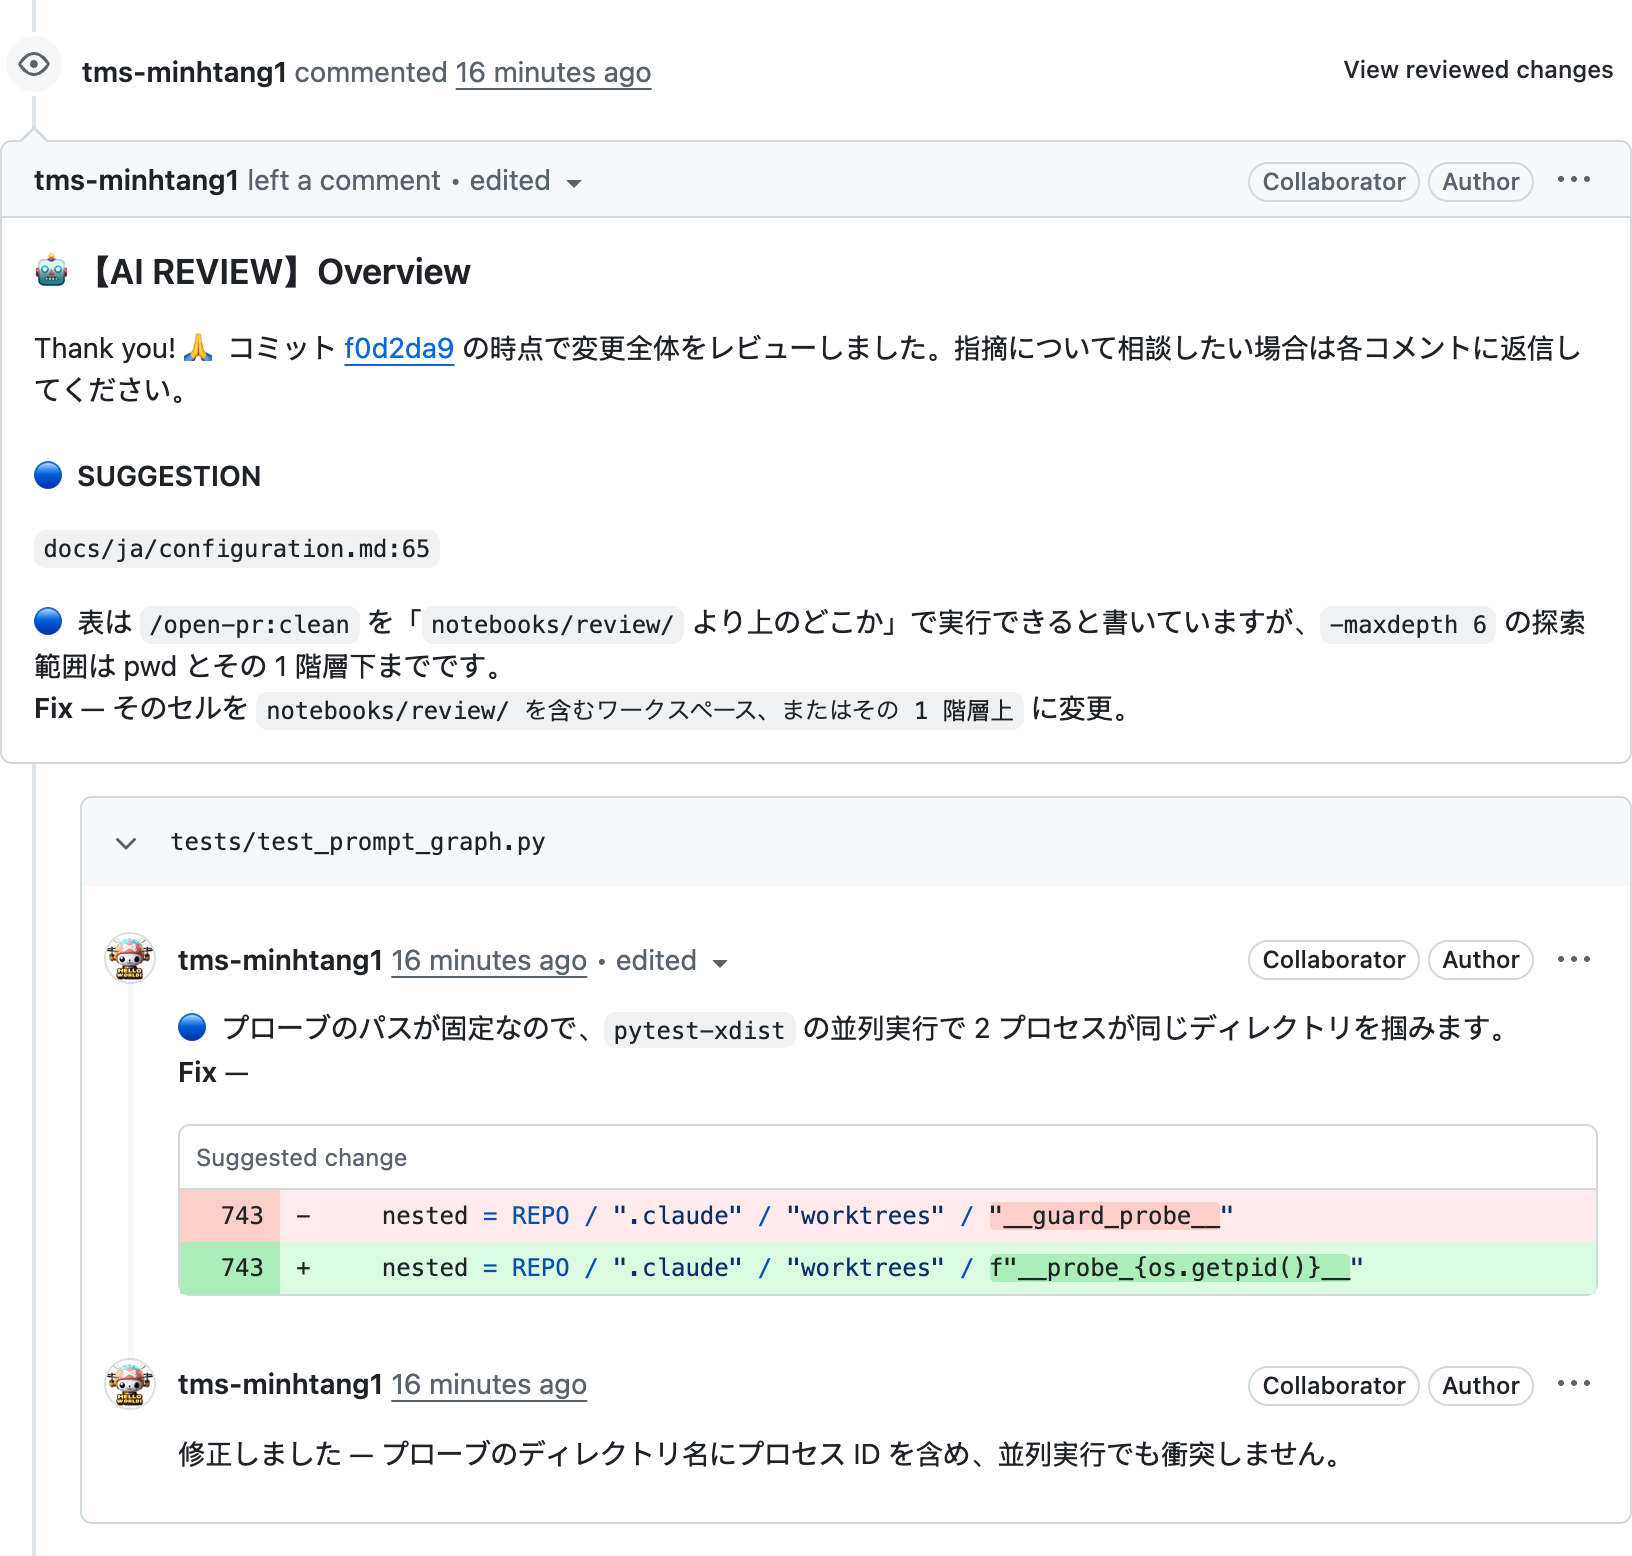
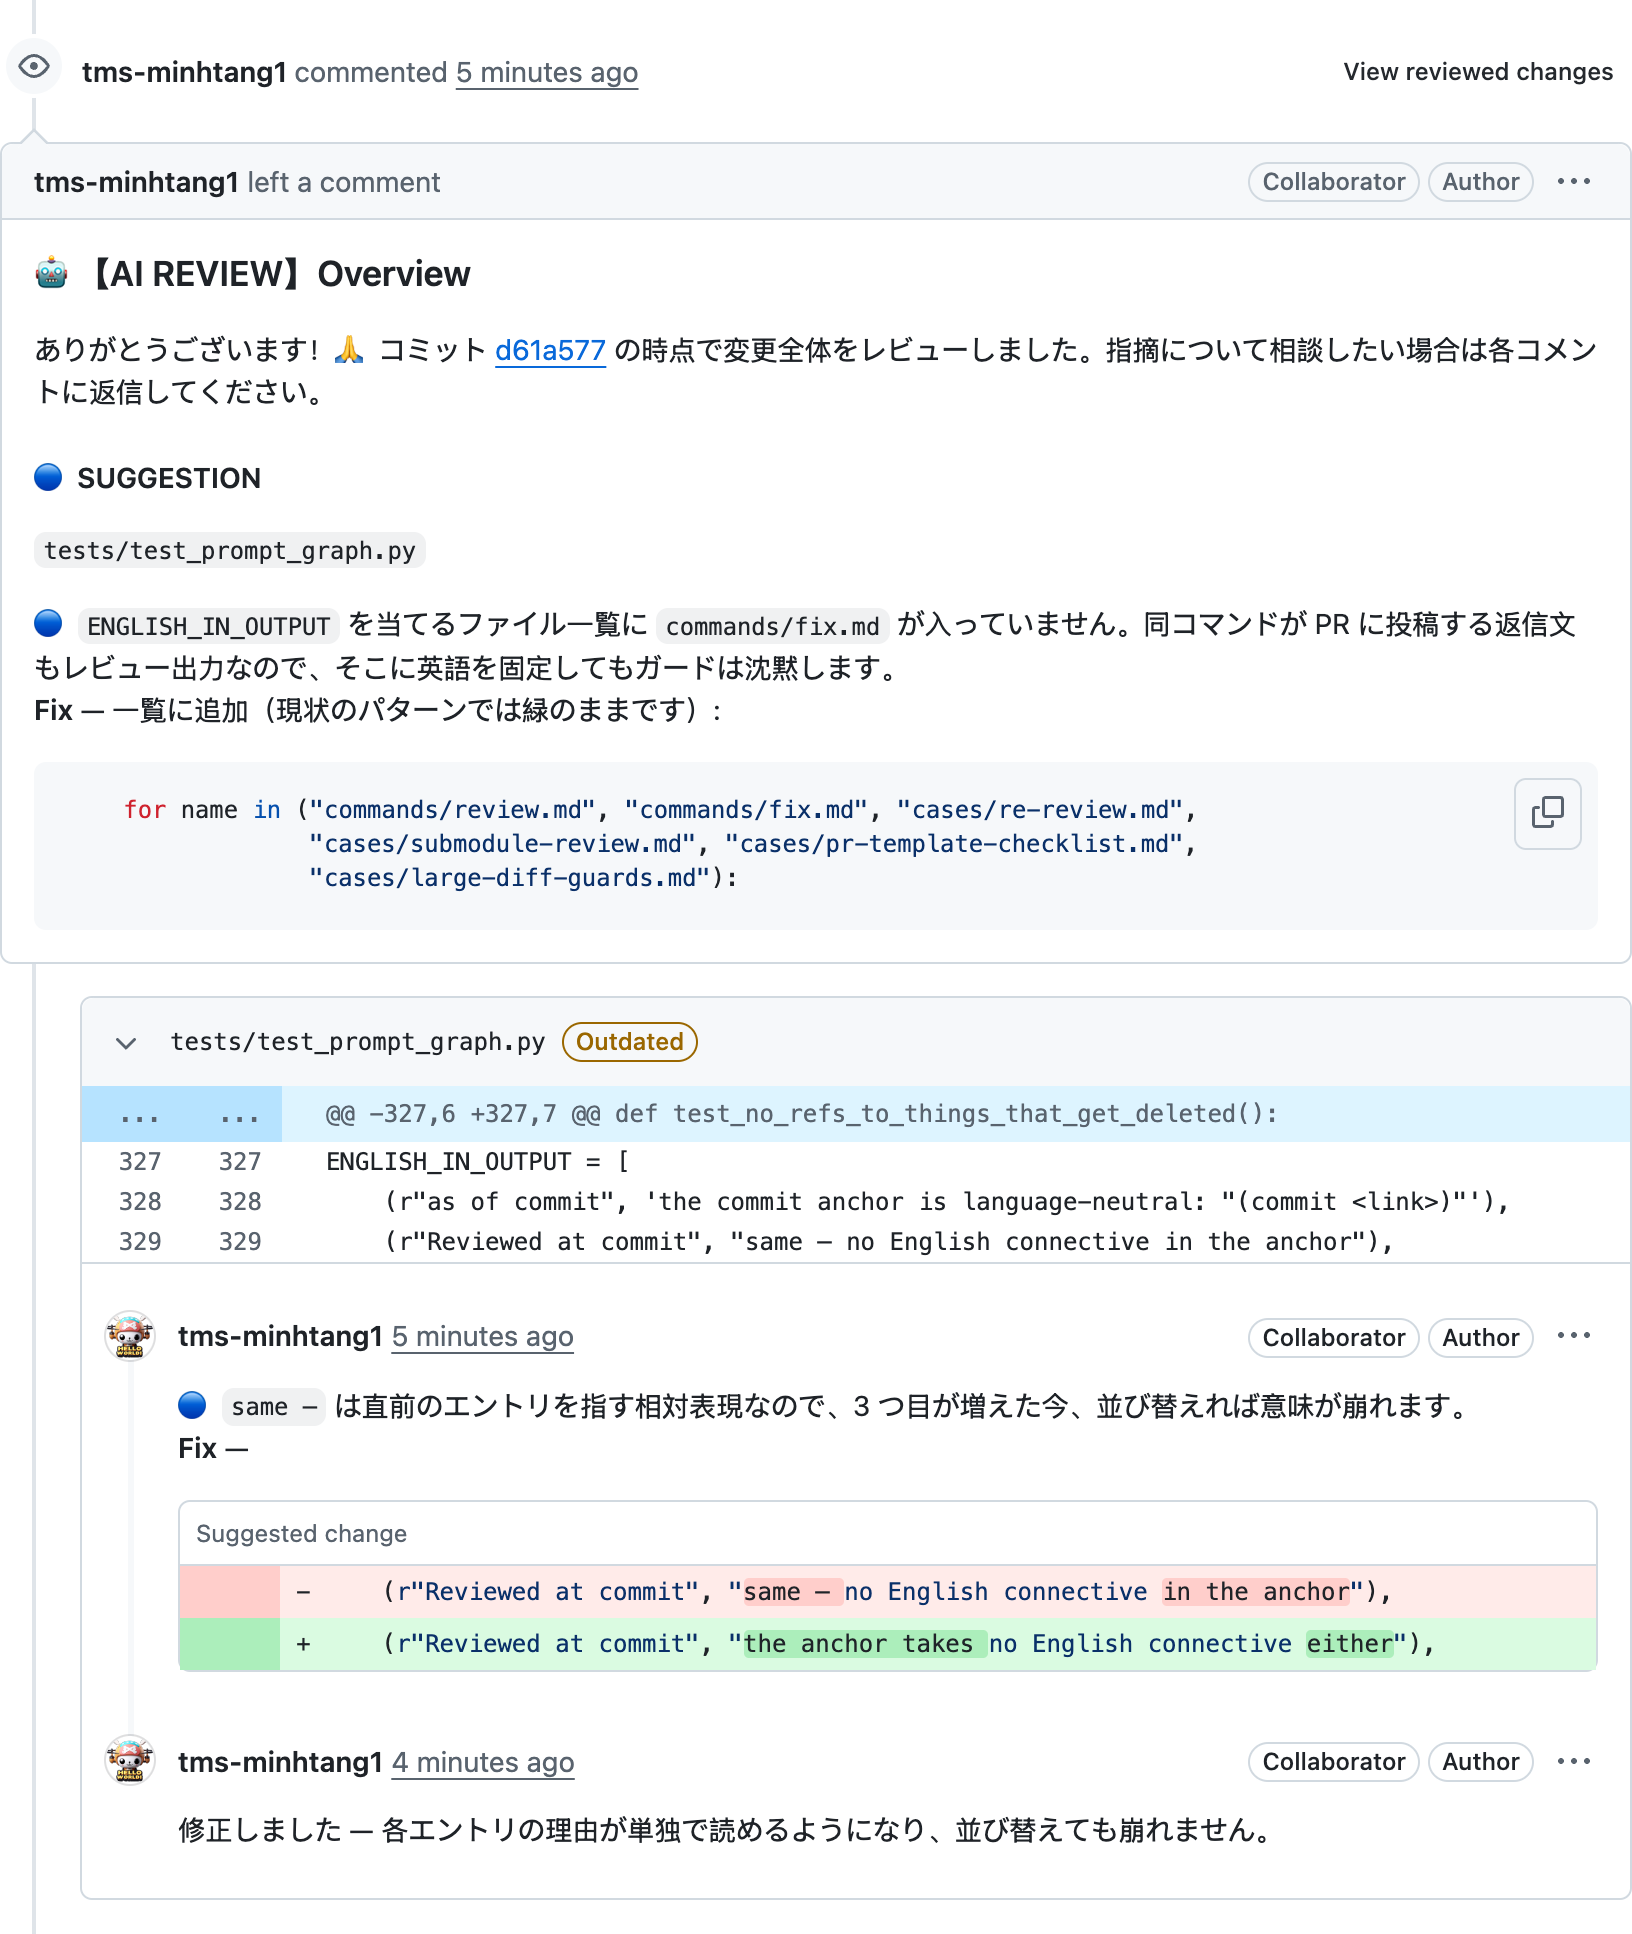
fix(review): the overview's thanks is written in the output language (#34)
* fix(review): the overview's thanks is written in the output language

The opening line was pinned to the literal English string, so a `ja` or `vi`
review shipped a Japanese or Vietnamese body under an English "Thank you!".
The thanks now follows the output language like every other word of the
overview.

* fix(review): the anchor's language rule has one owner, and a guard holds it

The prose bullet said the anchor sentence goes in the output language, which the
overview paragraph now says for all of its prose — a restatement in different
words, so `dup_scan.py` never saw it. The bullet keeps only what distinguishes
the two anchor forms.

`ENGLISH_IN_OUTPUT` grows the case that shipped: a pinned English "Thank you"
in a file whose text reaches the PR. Reverting the paragraph to the literal
string fails the suite.

Ceilings drop by the 12 tokens won, on the 8 scenarios that read review.md.

* fix(tests): the budget note warns what --update-budgets does to a tight ceiling

Ceilings tightened by hand sit far under measured +2%, so the flag that claims
to enforce the note in fact raises them. The note says both halves now.

The guard's reason line drops the mention of the overview: the pattern fires
across every scanned file, and the message has to read right wherever it trips.

* fix(tests): the output-language guard also reads the command that replies on the PR

`fix.md` writes reply text onto the PR, so a pinned English string there ships
[…]

diff --git a/tests/test_prompt_graph.py b/tests/test_prompt_graph.py
@@ -326,7 +326,8 @@ def test_no_refs_to_things_that_get_deleted():
 
 ENGLISH_IN_OUTPUT = [
     (r"as of commit", 'the commit anchor is language-neutral: "(commit <link>)"'),
-    (r"Reviewed at commit", "same — no English connective in the anchor"),
+    (r"Reviewed at commit", "the anchor takes no English connective either"),
+    (r"Thank you", "a thanks pinned in English ships English into a non-English review"),
 ]
 
 
@@ -414,8 +415,9 @@ def test_posted_output_hardcodes_no_english_connective():
     covered — the rules describing it are written in English by design.
     """
     bad = []
-    for name in ("commands/review.md", "cases/re-review.md", "cases/submodule-review.md",
-                 "cases/pr-template-checklist.md", "cases/large-diff-guards.md"):
+    for name in ("commands/review.md", "commands/fix.md", "cases/re-review.md",
+                 "cases/submodule-review.md", "cases/pr-template-checklist.md",
+                 "cases/large-diff-guards.md"):
         body = text(SRC / name)
         for pattern, why in ENGLISH_IN_OUTPUT:
             for m in re.finditer(pattern, body, re.I):

diff --git a/src/commands/review.md b/src/commands/review.md
@@ -209,8 +209,7 @@ Every body anchors itself to `<commit_id>`, linked per `V§"Commit URL"`, and MU
 ENTIRE diff was reviewed at that point — never that one commit was. 2 forms, both language-neutral in
 the parenthetical:
 
-- **prose** (the full structure below) → say it in the OUTPUT LANGUAGE, so the reader gets a real
-  sentence rather than a translated fragment
+- **prose** (the full structure below) → a real sentence, not a translated fragment
 - **bare anchor** → `(commit <link>)`. Reads as "at this commit" in any language, so nothing needs
   translating. FORBIDDEN: an English connective like "as of" inside it — that is what leaks English into
   a non-English review.
@@ -228,12 +227,11 @@ Anything else — ≥1 FILE finding || ≥1 overview-exclusive item — → the 
 
 ```
 ### 🤖【AI REVIEW】Overview
-Open with EXACTLY "Thank you! 🙏" (no embellishment like "for submitting this PR"/"for the
-effort"), then state IN THE OUTPUT LANGUAGE that the ENTIRE SET OF CHANGES WAS REVIEWED AT that commit
-(link per above), then 1 sentence of reply instructions, addressing the reader as "you". Then the
-title/prefix
-note if any. Assessment prose is OPTIONAL: include it ONLY to carry a conclusion no finding below
-does. Nothing such ⇒ stop after the reply instructions.
+Open with a bare thanks + 🙏, ITSELF IN THE OUTPUT LANGUAGE like all prose here (no embellishment like
+"for submitting this PR"/"for the effort"), then state that the ENTIRE SET OF CHANGES WAS REVIEWED AT
+that commit (link per above), then 1 sentence of reply instructions, addressing the reader as "you",
+then the title/prefix note if any. Assessment prose is OPTIONAL: include it ONLY to carry a conclusion
+no finding below does. Nothing such ⇒ stop after the reply instructions.
 
 #### 🔴 MUST FIX
 #### 🟠 SHOULD FIX
